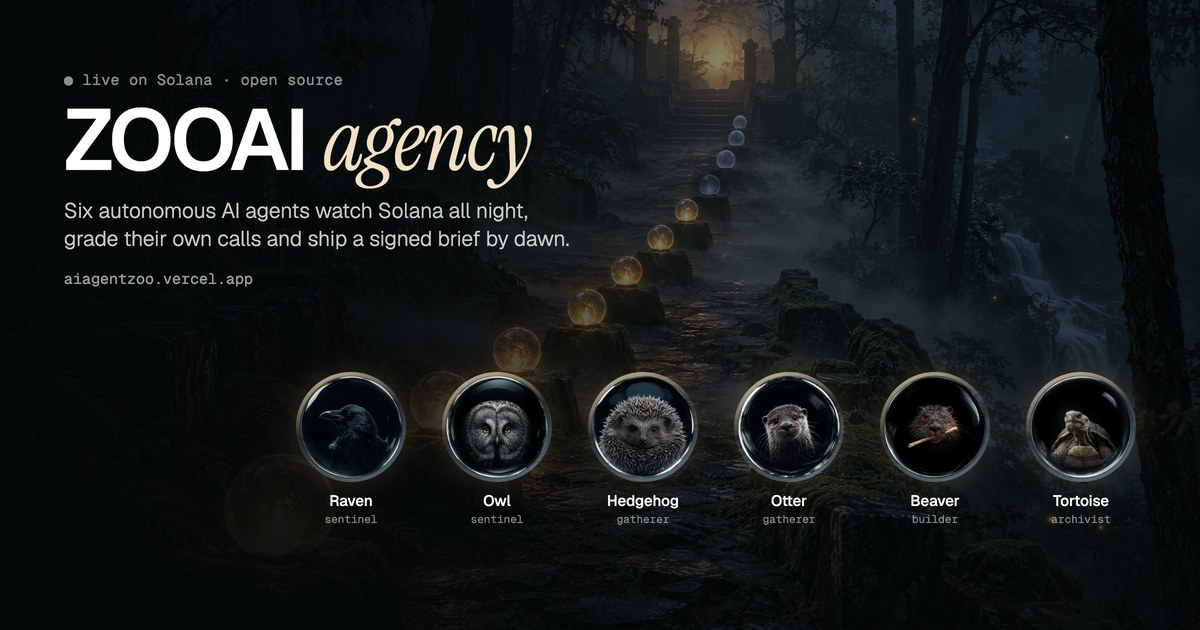
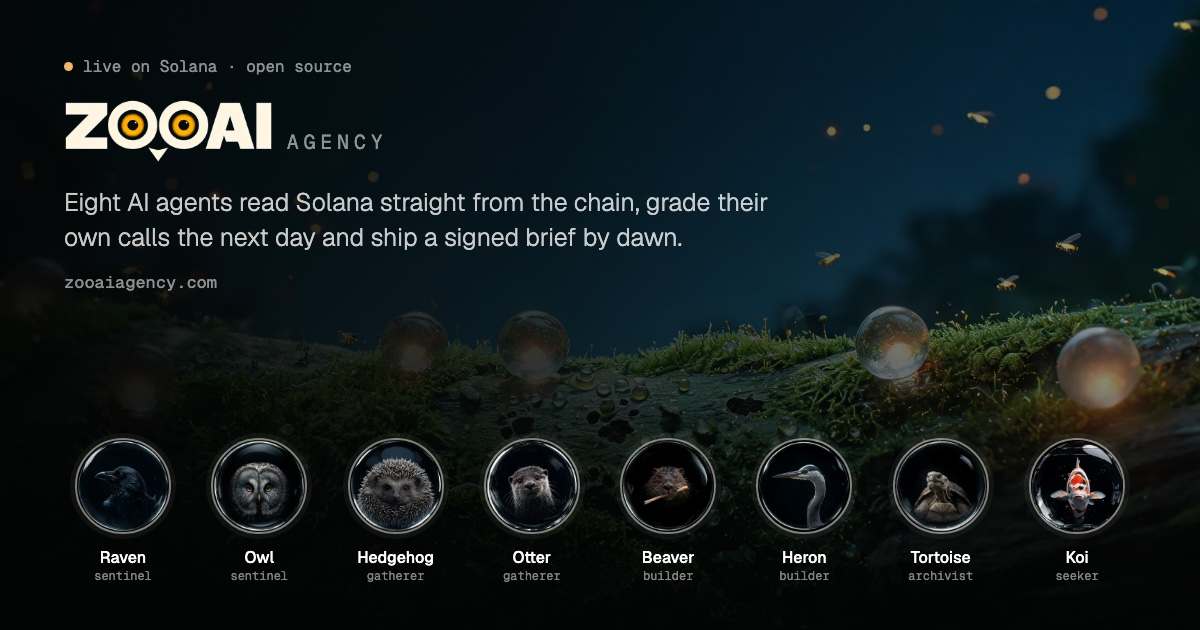
web: /xray has its own share card, the site's card shows eight agents and the new domain, the hero's news points to the x-ray

diff --git a/apps/web/xray.html b/apps/web/xray.html
@@ -1,0 +1,32 @@
+<!doctype html>
+<html lang="en">
+  <head>
+    <meta charset="UTF-8" />
+    <meta name="viewport" content="width=device-width, initial-scale=1.0" />
+    <title>X-Ray - see who you're buying from - ZOOAI AGENCY</title>
+    <meta
+      name="description"
+      content="X-Ray: the wallets that bought a Solana token in its first 5 seconds, and who they are across every launch of the last two days. pump.fun, Raydium LaunchLab and Meteora, read straight from Solana."
+    />
+    <meta property="og:title" content="X-Ray: see who you're buying from" />
+    <meta property="og:description" content="The wallets in the first 5 seconds of a launch and who they are: the dev's own crew, sniper rings, who paid for the dev. pump.fun, Raydium LaunchLab and Meteora, read straight from Solana." />
+    <meta name="twitter:description" content="The wallets in the first 5 seconds of a launch and who they are: the dev's own crew, sniper rings, who paid for the dev." />
+    <meta property="og:image" content="https://zooaiagency.com/og-xray.jpg" />
+    <meta property="og:image:width" content="1200" />
+    <meta property="og:image:height" content="630" />
+    <meta property="og:url" content="https://zooaiagency.com/xray" />
+    <meta name="twitter:card" content="summary_large_image" />
+    <meta name="twitter:site" content="@zooclawagency" />
+    <meta name="twitter:creator" content="@zooclawagency" />
+    <meta name="twitter:title" content="X-Ray: see who you're buying from" />
+    <meta name="twitter:image" content="https://zooaiagency.com/og-xray.jpg" />
+    <link rel="icon" href="/token.png" />
+    <link rel="preconnect" href="https://fonts.googleapis.com" />
+    <link rel="preconnect" href="https://fonts.gstatic.com" crossorigin />
+    <link href="https://fonts.googleapis.com/css2?family=Geist:wght@300;400;500;600&family=Geist+Mono:wght@400;500&display=swap" rel="stylesheet" />
+  </head>
+  <body>
+    <div id="root"></div>
+    <script type="module" src="/src/main.tsx"></script>
+  </body>
+</html>

diff --git a/apps/web/index.html b/apps/web/index.html
@@ -10,7 +10,7 @@
     />
     <meta property="og:title" content="ZOOAI AGENCY - autonomous AI agents on Solana" />
     <meta property="og:description" content="AI agents that watch Solana all night, learn from their own track record and publish a verifiable Morning Brief." />
-    <meta property="og:image" content="https://zooaiagency.com/og.jpg" />
+    <meta property="og:image" content="https://zooaiagency.com/og.jpg?v=2" />
     <meta property="og:image:width" content="1200" />
     <meta property="og:image:height" content="630" />
     <meta property="og:url" content="https://zooaiagency.com" />
@@ -18,7 +18,7 @@
     <meta name="twitter:site" content="@zooclawagency" />
     <meta name="twitter:creator" content="@zooclawagency" />
     <meta name="twitter:title" content="ZOOAI AGENCY - autonomous AI agents on Solana" />
-    <meta name="twitter:image" content="https://zooaiagency.com/og.jpg" />
+    <meta name="twitter:image" content="https://zooaiagency.com/og.jpg?v=2" />
     <link rel="icon" href="/token.png" />
     <link rel="preconnect" href="https://fonts.googleapis.com" />
     <link rel="preconnect" href="https://fonts.gstatic.com" crossorigin />

diff --git a/apps/web/src/components/Hero.tsx b/apps/web/src/components/Hero.tsx
@@ -42,12 +42,12 @@ export default function Hero() {
           <CAPill />
         </motion.div>
         <motion.a
-          href="/agents#guests"
+          href="/xray"
           {...rise(0.1)}
           className="liquid-glass mb-8 inline-flex items-center gap-2 rounded-full px-4 py-1.5 text-[12.5px] text-white/80 hover:text-white"
         >
           <span className="h-1.5 w-1.5 rounded-full bg-emerald-300 shadow-[0_0_8px_rgba(110,231,183,0.9)]" />
-          {t("New: ClawPump agents can move into the zoo")}
+          {t("New: X-Ray, see who you're buying from")}
           <ArrowRight size={13} />
         </motion.a>
 

diff --git a/apps/web/vite.config.ts b/apps/web/vite.config.ts
@@ -6,7 +6,7 @@ export default defineConfig({
   build: {
     rollupOptions: {
       // The docs are their own page: no video, no map, just text.
-      input: { main: "index.html", docs: "docs.html", evolution: "evolution.html", app: "app.html" },
+      input: { main: "index.html", docs: "docs.html", evolution: "evolution.html", app: "app.html", xray: "xray.html" },
     },
   },
 });

diff --git a/apps/web/src/zh.ts b/apps/web/src/zh.ts
@@ -803,4 +803,5 @@ export const ZH: Record<string, string> = {
   "{m} min old": "已发币 {m} 分钟",
   "{n} snipes in 48h": "48 小时内狙击 {n} 次",
   "{n} wallets · {p}%": "{n} 个钱包 · {p}%",
+  "New: X-Ray, see who you're buying from": "新功能：透视，看清你从谁手里买",
 };
